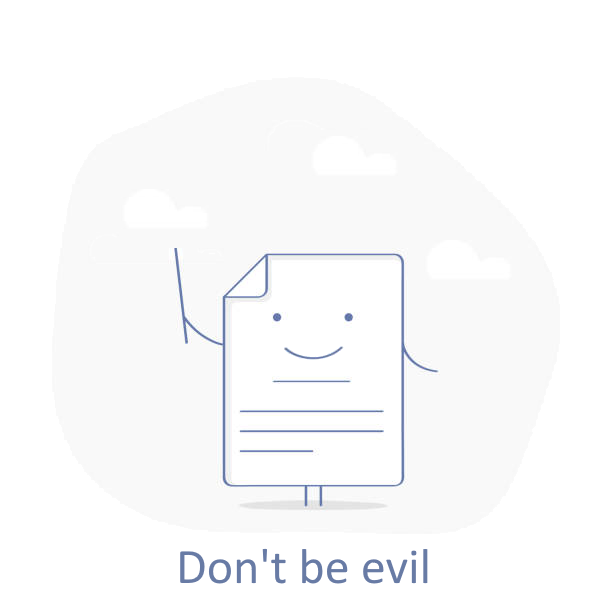
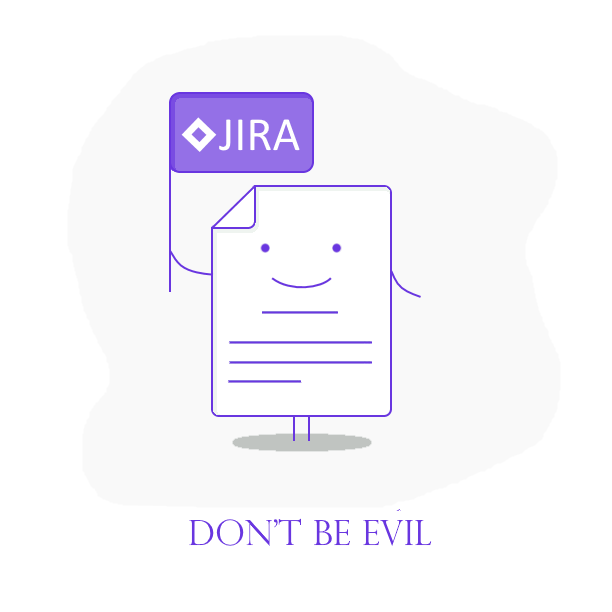
task-8. Update FAQ

Changed region(s): [[0.2484, 0.1242, 0.7141, 0.9624], [0.4346, 0.4657, 0.5899, 0.5278]]

diff --git a/src/Pet.Jira.Web/wwwroot/css/custom.css b/src/Pet.Jira.Web/wwwroot/css/custom.css
@@ -1,14 +1,24 @@
 .mud-input {
     font-size: 0.9rem !important;
 }
-.pet-center {
+.pet-horizontal-center {
     display: block;
     margin-left: auto;
     margin-right: auto;
 }
 
+.pet-vertical-center {
+    position: relative;
+    top: 50%;
+    transform: translateY(-50%);
+}
+
+.pet-grid-container {
+    display: grid !important;
+}
+
 .pet-white {
-    color: white !important
+    color: white !important;
 }
 
 :root {

diff --git a/src/Pet.Jira.Web/Components/Markdown/MarkdownViewer.razor.cs b/src/Pet.Jira.Web/Components/Markdown/MarkdownViewer.razor.cs
@@ -8,11 +8,8 @@ namespace Pet.Jira.Web.Components.Markdown
 {
     public partial class MarkdownViewer : ComponentBase
     {
-        [Parameter]
-        public string MarkdownPath { get; set; }
-
-        [Inject]
-        private IMarkdownService MarkdownService { get; init; } = default!;
+        [Parameter] public string MarkdownPath { get; set; }
+        [Inject] private IMarkdownService MarkdownService { get; init; } = default!;
         [CascadingParameter] public ErrorHandler ErrorHandler { get; set; }
 
         private string Value { get; set; } = string.Empty;

diff --git a/src/Pet.Jira.Web/faq.md b/src/Pet.Jira.Web/faq.md
@@ -1,26 +1,31 @@
-##### **Зачем?**
-Не всегда получается вовремя залогировать время на задачу. Хочется сразу перейти к следующей. Вспоминать или идти по истории изменений руками может быть трудно. Это приложение подсказывает каким задачами и когда мы занимались ранее, сколько предположительно потратили на это времени и позволяет это время залогировать.
+##### Зачем?
+Автоматизация логирования времени по задачам Jira. Вычисления носят рекомендательный и приблизительный харакетр.
 
-##### **Для кого?**
-В первую очередь для разработчиков, т.к. алгоритм вычисления написан под dev-workflow. В теории может быть использован QA.
+##### Для кого?
+Разработка. Сейчас вычисления по большей части учитывают только dev-workflow и заточены под изменение статусов задач, где сотрудник является ответственным.
 
-##### **Описание параметров поиска по задачам**
-- **Date range**. Период времени, за который анализируются задачи
-- **Daily working start time**. Время начала рабочего дня сотрудника
-- **Daily working end time**. Время окончания рабочего дня сотрудника
-- **In work issue status**. Статус, который считается для сотрудника рабочим по задаче
+##### Как вычисляется время?
+- Залогированное время делится на 2 категории
+	- Время, которое уже залогировали. Такое время считается статическим и не подлежит пересчету.
+	- Время, которое предлагается залогировать. Вычисляется пропорционально чистому времени, потраченному на задачу в рамках указанного рабочего промежутка (**Daily working start time** - **Daily working end time**) за вычетом времени перерывов (сейчас это статически 1 час) и времени уже залогированных задач. **In work issue status** - статус задачи, который считается для сотрудника рабочим по задаче (по умолчанию это In Progress).
 
-##### **Какой часовой пояс учитывается при работе со временем?**
+##### Что пока не реализовано?
+Логирование времени по задачам, где сотрудник не является ответственным. Есть идея этой реализации, но пока это не сделано ревью, обсуждения и другие побочные активности необходимо заносить руками через UI Jira.
+
+##### Какой часовой пояс учитывается при работе со временем?
 Часовой пояс сотрудника из Jira.
 
-##### **Алгоритм вычисления предполагаемого логируемого времени**
-- Обед. Сейчас это статическое время = 1 час
-- Все worklog'и, которые добавлены вручную, считаются жестко зафиксированным временем, поэтому при пересчете изменению не подлежат. Это сделано для задач, в которых сотрудник принимал непрямое участие. Сейчас это ревью и обсуждения по задаче.
-- В задачах анализируется история изменения статуса. Учитываются изменения, когда пользователь перевел задачу в **In work issue status** и когда перешел к следующему шагу.
-- Далее время пересчитывается по каждой задаче пропорционально с учетом начала и окончания рабочего дня, обеда, вручную зафксированного времени и затраченного в рамках рабочего дня времени на задачу
+##### Можно ли залогировать произвольное время?
+Да. Расчет времени носит исключительно рекомендательный характер.
 
-##### **Можно ли залогировать произвольное время?**
-Да. Пересчет носит исключительно рекомендательный характер.
-
-##### **Где хранится введенная мною информация?**
+##### Где хранится введенная мною информация?
 Единой базы данных у приложения нет принципиально. Нигде на сервере информация не хранится. Источником данных является Jira.
+
+##### Как привязывается залогированное время к задаче?
+Сейчас по времени. Время изменения статуса сверяется с временем логирования. Если есть несовпадение, то привязка не происходит.
+
+##### Как удалить залогированное время?
+Через Jira.
+
+##### Мне все-таки что-то непонятно. Куда я могу обратиться?
+https://github.com/tolmachev-pravo/Pet.Jira/issues

diff --git a/src/Pet.Jira.Web/development.readme.md b/src/Pet.Jira.Web/development.readme.md
@@ -1,4 +1,10 @@
-- Шрифт текста на картинках - Calibri 12. Цвет - пипеткой от изображения
+- Шрифт
+-- Тест на картинках: Perpetia Titling MT 26
+- Цвета:
+-- Фиолетовый: 6936E0 8260E5
+-- Тень: EFF4F0
+-- Фон: F9FFFB. Opacity: 185
 - Иконки для Markdown: https://gist.github.com/rxaviers/7360908
 - Компоненты Blazor: https://mudblazor.com/
+- Компонент Markdown: https://github.com/MyNihongo/MudBlazor.Markdown
 - Safe storage of app secrets in development in ASP.NET Core: https://docs.microsoft.com/en-us/aspnet/core/security/app-secrets?view=aspnetcore-6.0&tabs=windows
